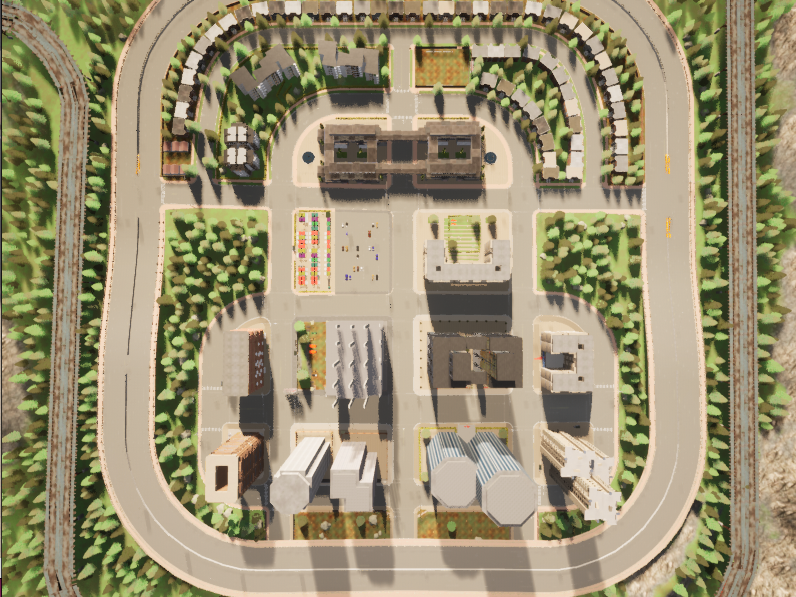
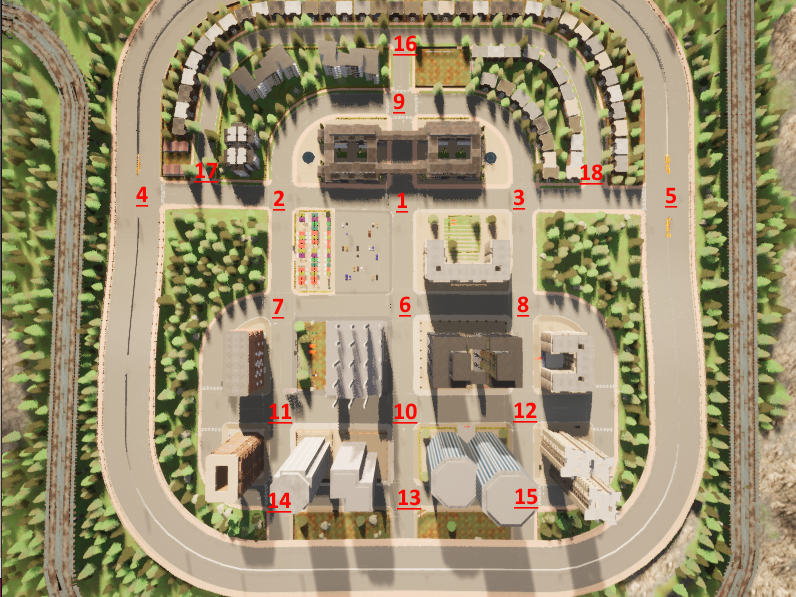
Add map for camera ident

diff --git a/README.md b/README.md
@@ -29,3 +29,17 @@ Run with the `--help` flag for more options.
 ```
 ## Notes
 - `tmux` may be useful for opening multiple windows in the docker container. 
+
+# Camera Locations
+
+![map](./map.png)
+
+```
+Visible:
+
+
+
+Encrypted:
+1 = 
+
+```
